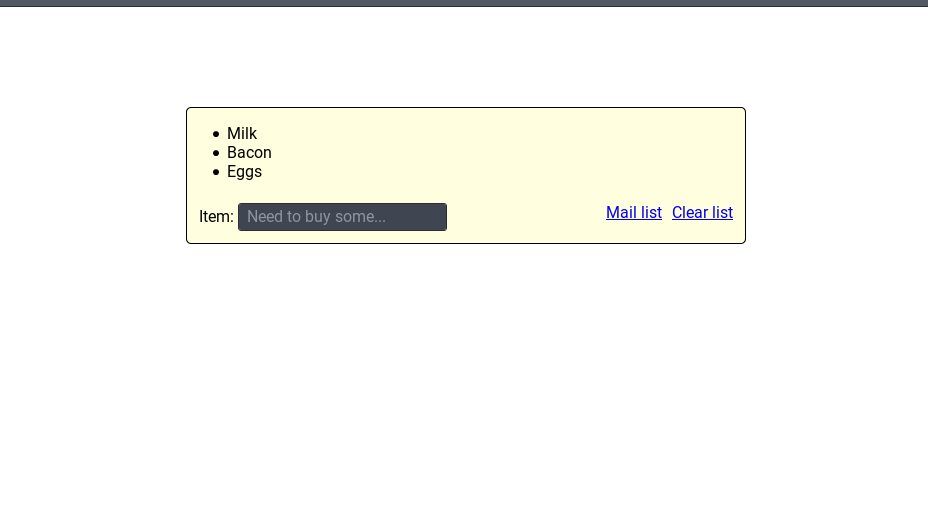
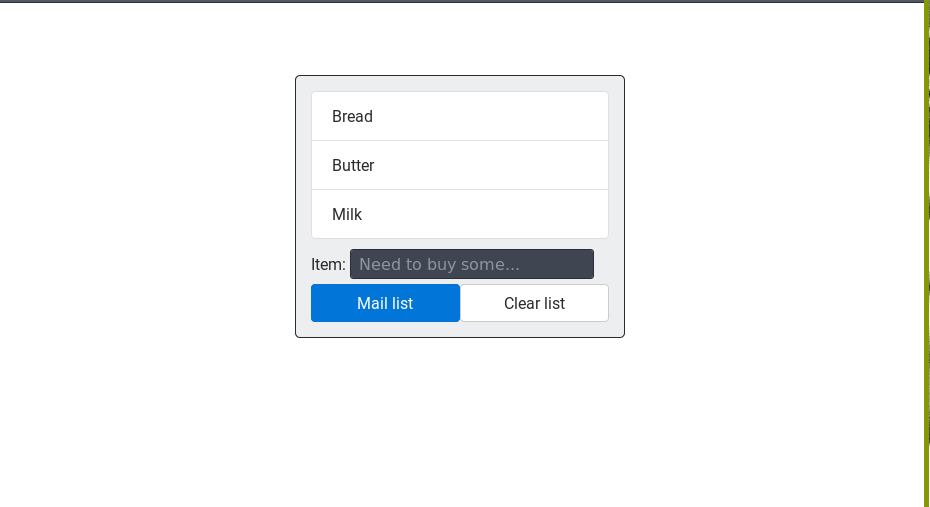
list-group

Changed region(s): [[0.1875, 0.1479, 0.8125, 0.6509], [0.0, 0.0, 1.0, 1.0], [0.5312, 0.5917, 0.625, 0.6213]]

diff --git a/server.js b/server.js
@@ -39,10 +39,10 @@ function displayList(res) {
   });
 
   res.write(fs.readFileSync('res/header.html'));
-  res.write('<ul>\r\n');
+  res.write('<ul class="list-group">\r\n');
   db.each("SELECT name from items", function(err, row) {
     if (err === null) {
-      res.write('<li>'+Entities.encode(row.name)+'</li>\r\n');
+      res.write('<li class="list-group-item">'+Entities.encode(row.name)+'</li>\r\n');
     }
   }, function (err, numrows) {
     res.write('</ul>\r\n');

diff --git a/res/form.html b/res/form.html
@@ -1,12 +1,9 @@
 
     <form class="" action="" method="post">
-      <fieldset>
         <label for="item">Item:</label>
         <input type="text" name="item" id='item' placeholder="Need to buy some..." />
-      </fieldset>
     </form>
-    <div class="row">
+    <div style="margin: auto;" class="row">
       <a class="col btn btn-primary" href="/mail">Mail list</a>
       <a class="col btn btn-secondary" href="/clear">Clear list</a>
-
     </div>

diff --git a/res/header.html b/res/header.html
@@ -10,9 +10,7 @@
     font-family: 'Roboto', sans-serif;
     padding-top: 4.5rem;
   }
-  fieldset {
-    border-style: none;
-  }
+
   div.jumbotron {
     max-width: 330px;
     padding: 15px;
@@ -20,6 +18,9 @@
     border-radius: 5px;
     border-width: 1px;
     border-style: solid;
+  }
+  form {
+    padding-top: 10px;
   }
 }
 </style>
